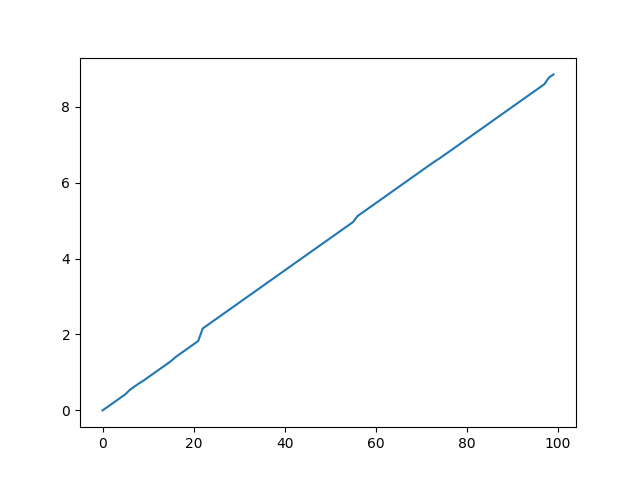
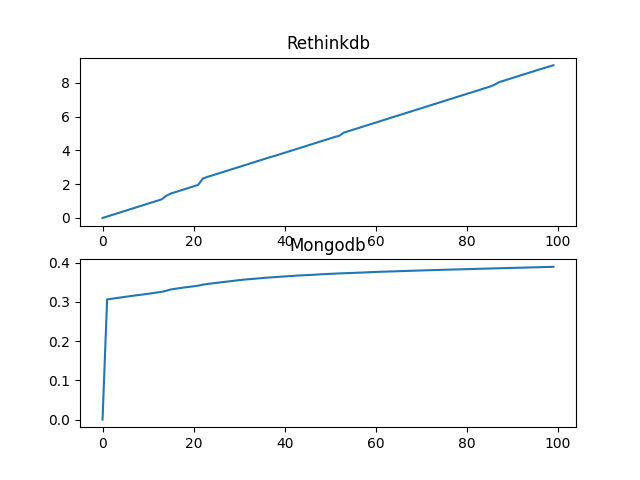
add basic speed comparison

diff --git a/efficiency-tests/main.py b/efficiency-tests/main.py
@@ -1,35 +1,71 @@
 from rethinkdb import r
 from rethinkdb.errors import ReqlRuntimeError
+from pymongo import MongoClient
 import matplotlib.pyplot as plt
 import time
 
-def prepare_db() -> None:
-    r.connect('localhost', 28015).repl()
-    try:
-        r.db('test').table_drop('inserts').run()
-    except ReqlRuntimeError:
-        pass
-    r.db('test').table_create('inserts').run()
+
+class RethinkTest:
+
+    def __init__(self):
+        r.connect('localhost', 28015).repl()
+        try:
+            r.db('test').table_drop('inserts').run()
+        except ReqlRuntimeError:
+            pass
+        r.db('test').table_create('inserts').run()
+
+    @classmethod
+    def test_efficiency(cls, inserts_num: int):
+        idx = 0
+        print('test started')
+
+        start = time.time()
+        while idx < inserts_num:
+            r.table('inserts').insert({'id': idx, 'time': time.time() - start}).run()
+            idx += 1
+
+        print('test finished')
+
+    @classmethod
+    def get_results(cls) -> list:
+        return list(r.table('inserts').run())
 
 
-def test_efficiency(inserts_num: int) -> None:
-    idx = 0
-    print('test started')
+class MongoTest:
 
-    start = time.time()
-    while idx < inserts_num:
-        r.table('inserts').insert({'id': idx, 'time': time.time() - start}).run()
-        idx += 1
+    def __init__(self):
+        mongo_cli = MongoClient('127.0.0.1', 27017)
+        self.db = mongo_cli.test
+        self.db.inserts.drop()
 
-    print('test finished')
+    def test_efficiency(self, inserts_num: int):
+        idx = 0
+        print('test started')
+
+        start = time.time()
+        while idx < inserts_num:
+            self.db.inserts.insert_one({'id': idx, 'time': time.time() - start})
+            idx += 1
+
+        print('test finished')
+
+    def get_results(self) -> list:
+        return list(self.db.inserts.find())
 
 
-def plot_result():
-    data = sorted(list(r.table('inserts').run()), key=lambda x: x['id'])
-    time_series = [row['time'] for row in data]
+def plot_result(rethink_data: list, mongo_data: list):
+    rethink_time_series = [row['time'] for row in sorted(rethink_data, key=lambda x: x['id'])]
+    mongo_time_series = [row['time'] for row in sorted(mongo_data, key=lambda x: x['id'])]
 
-    # print(time_series)
-    plt.plot(time_series)
+    print(rethink_time_series)
+    print(mongo_time_series)
+
+    fig, axs = plt.subplots(2)
+    axs[0].set_title('Rethinkdb')
+    axs[0].plot(rethink_time_series)
+    axs[1].set_title('Mongodb')
+    axs[1].plot(mongo_time_series)
     plt.savefig('inserts.png')
 
 
@@ -37,6 +73,13 @@ if __name__ == '__main__':
 
     inserts_number = 100
 
-    prepare_db()
-    test_efficiency(inserts_num=inserts_number)
-    plot_result()
+    rethink_test = RethinkTest()
+    rethink_test.test_efficiency(inserts_num=inserts_number)
+
+    mongo_test = MongoTest()
+    mongo_test.test_efficiency(inserts_num=inserts_number)
+
+    plot_result(
+        rethink_data=rethink_test.get_results(),
+        mongo_data=mongo_test.get_results()
+    )
